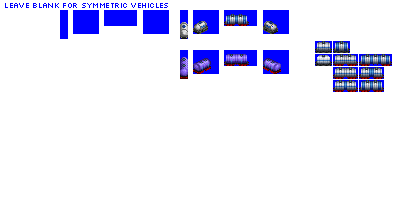
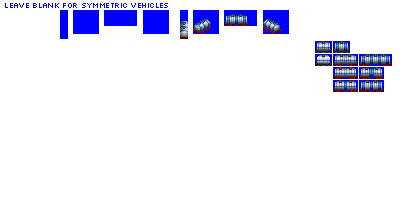
Change: sprites complete for gen 5B and 5C edibles tank cars

Changed region(s): [[0.45, 0.24, 0.72, 0.42], [0.45, 0.09, 0.54, 0.21], [0.66, 0.09, 0.72, 0.18]]

diff --git a/src/vehicles/edibles_tank_cars.py b/src/vehicles/edibles_tank_cars.py
@@ -67,7 +67,8 @@ def main():
     consist = EdiblesTankCarConsist(roster='pony',
                                     base_numeric_id=1700,
                                     gen=5,
-                                    subtype='B')
+                                    subtype='B',
+                                    sprites_complete=True)
 
     consist.add_unit(type=FreightCar,
                      vehicle_length=6,
@@ -76,7 +77,8 @@ def main():
     consist = EdiblesTankCarConsist(roster='pony',
                                     base_numeric_id=3050,
                                     gen=5,
-                                    subtype='C')
+                                    subtype='C',
+                                    sprites_complete=True)
 
     consist.add_unit(type=FreightCar,
                      vehicle_length=8,
